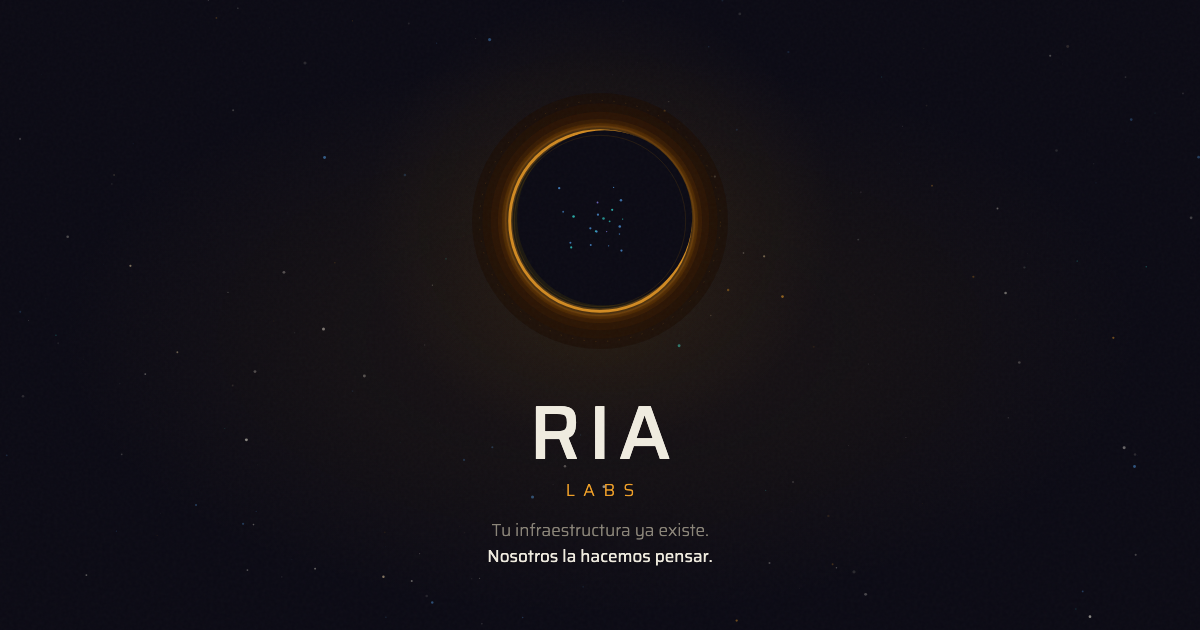
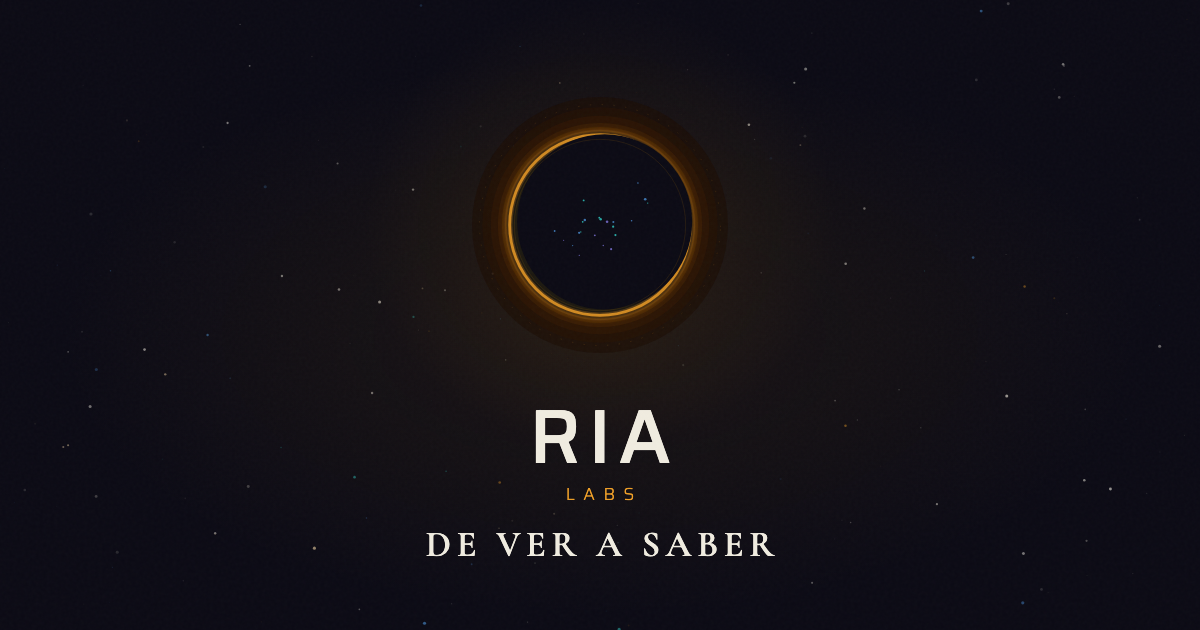
Hero: «DE VER A SABER» en Cormorant Garamond y la prosa del hero; OG regenerada
El titular pasa a ser la declaración que eligió Matías, en mayúsculas romanas
(Cormorant Garamond 600, tracking 0,16 em, 54 px en desktop y una sola línea de
32 px en un celular) frente a la geometría de Saira del wordmark. Se probaron en
la página real Cormorant y Marcellus; Marcellus queda demasiado cerca del ritmo de
Saira y no tiene cursiva.

La bajada de tres frases se reemplaza por la prosa que mezcla los tres textos:
Saira 300 a 17 px, interlineado 1,78, columna de ~65 caracteres. La frase citada
va en la misma voz que el titular (Cormorant cursiva, en blanco, sin comillas ni
atribución) y la cláusula final sube a blanco como los strong del resto.

La fuente se carga con un link propio de Google Fonts con sólo las dos caras que
se usan. El modo OG del script muestra el titular nuevo a 36 px y esconde la
pista «tocá el eclipse»; og-image.png se regeneró con él.

diff --git a/v5/index.html b/v5/index.html
@@ -27,6 +27,8 @@
 <link rel="preconnect" href="https://fonts.googleapis.com">
 <link rel="preconnect" href="https://fonts.gstatic.com" crossorigin>
 <link href="https://fonts.googleapis.com/css2?family=Saira:wght@200;300;400;500;600&family=DM+Mono:wght@300;400&display=swap" rel="stylesheet">
+<!-- la voz del titular y de la frase citada del hero: una romana de lectura frente a la geometría de Saira -->
+<link href="https://fonts.googleapis.com/css2?family=Cormorant+Garamond:ital,wght@0,600;1,500&display=swap" rel="stylesheet">
 <style>
   :root {
     --bg:      #0b0a14;
@@ -181,9 +183,17 @@
   .ria { font-weight: 500; font-size: clamp(56px, 9.5vw, 108px); letter-spacing: 0.1em; line-height: 0.95; color: var(--white); margin-left: 0.1em; }
   .labs { font-weight: 300; font-size: clamp(12px, 1.6vw, 17px); letter-spacing: 0.5em; color: var(--gold-hi); text-transform: uppercase; margin-top: 8px; margin-left: 0.5em; }
 
-  .hero-headline { font-size: clamp(18px, 2.6vw, 25px); font-weight: 300; color: var(--muted); max-width: 640px; line-height: 1.55; margin: 28px 0 14px; animation: fadeUp 0.9s ease 0.85s both; position: relative; z-index: 2; }
-  .hero-headline strong { color: var(--white); font-weight: 400; }
-  .hero-sub { font-size: 15px; font-weight: 300; color: var(--muted); max-width: 580px; line-height: 1.72; margin-bottom: 38px; opacity: 0.9; animation: fadeUp 0.9s ease 1s both; position: relative; z-index: 2; }
+  /* El titular: una declaración en mayúsculas romanas, no un eslogan. Cormorant Garamond (una garalda de
+     contraste alto) frente a la geometría de Saira del wordmark; el tracking abre las mayúsculas y el
+     padding izquierdo compensa el espacio sobrante de la última letra para que quede centrado de verdad.
+     Entra en una línea a 390 px; si alguna vez parte, parte parejo (balance), nunca en tres. */
+  .hero-headline { font-family: 'Cormorant Garamond', Georgia, 'Times New Roman', serif; font-weight: 600; font-size: clamp(32px, 3.9vw, 54px); letter-spacing: 0.16em; padding-left: 0.16em; text-transform: uppercase; line-height: 1.1; color: var(--white); max-width: 100%; text-wrap: balance; margin: 28px 0 20px; animation: fadeUp 0.9s ease 0.85s both; position: relative; z-index: 2; }
+  /* La prosa: columna de lectura de ~65 caracteres, interlineado generoso. La frase citada va en la
+     misma voz que el titular, en cursiva y un poco más grande (Cormorant tiene la x baja); la última
+     cláusula sube a blanco como en el resto de la página. */
+  .hero-sub { font-size: 17px; font-weight: 300; color: var(--muted); max-width: 590px; line-height: 1.78; margin: 0 0 38px; text-wrap: pretty; animation: fadeUp 0.9s ease 1s both; position: relative; z-index: 2; }
+  .hero-sub em { font-family: 'Cormorant Garamond', Georgia, serif; font-style: italic; font-weight: 500; font-size: 1.24em; line-height: 1; color: var(--white); }
+  .hero-sub strong { color: var(--white); font-weight: 400; }
   .hero-ctas { display: flex; gap: 14px; align-items: center; flex-wrap: wrap; justify-content: center; animation: fadeUp 0.9s ease 1.1s both; position: relative; z-index: 2; }
   .hero-origin { position: absolute; bottom: 28px; left: 50%; transform: translateX(-50%); font-family: 'DM Mono', monospace; font-size: 10px; font-weight: 300; letter-spacing: 3px; color: var(--muted); opacity: 0; white-space: nowrap; animation: fadeIn 2s ease 1.6s forwards; }
 
@@ -355,6 +365,7 @@
     nav{padding:14px 24px;} .nav-links{display:none;} .nav-burger{display:block;} .nav-cta{display:none;}
     .wrap{padding:0 24px;} .section{padding:80px 0;}
     .hero{padding:96px 18px 72px;}
+    .hero-headline{margin:26px 0 18px;} .hero-sub{font-size:16px;line-height:1.78;margin-bottom:34px;}
     .hero-origin{bottom:22px;}
     #sistema-wrap{margin-top:22px;}
     .prod{padding:64px 0;}
@@ -532,8 +543,8 @@
     <span class="labs">Labs</span>
   </div>
 
-  <h1 class="hero-headline">Tu infraestructura ya existe.<br><strong>Nosotros la hacemos pensar.</strong></h1>
-  <p class="hero-sub">Un motor de analítica de video e inteligencia artificial. Tres productos que lo expresan. Y un laboratorio que prueba sobre datos reales, mide, y publica sus propios límites.</p>
+  <h1 class="hero-headline">De ver a saber</h1>
+  <p class="hero-sub">El conocimiento ya lo tienen las máquinas: cada cámara, cada sensor, cada registro, acumulado sin cansancio. Pero <em>el verdadero signo de la inteligencia no es el conocimiento sino la imaginación</em>, y esa parte sigue siendo humana: una máquina puede saberlo todo de una esquina y no imaginar jamás un semáforo distinto. Nosotros ponemos la imaginación; el motor, la memoria y la atención que no duermen. Cuando las dos se alinean, como el sol y la luna por un instante, aparece algo que antes no estaba: <strong>una infraestructura que piensa</strong>.</p>
   <div class="hero-ctas">
     <a href="#productos" class="btn-gold">Ver los productos</a>
     <a href="#dataflow" class="btn-ghost">Conocer el motor →</a>
